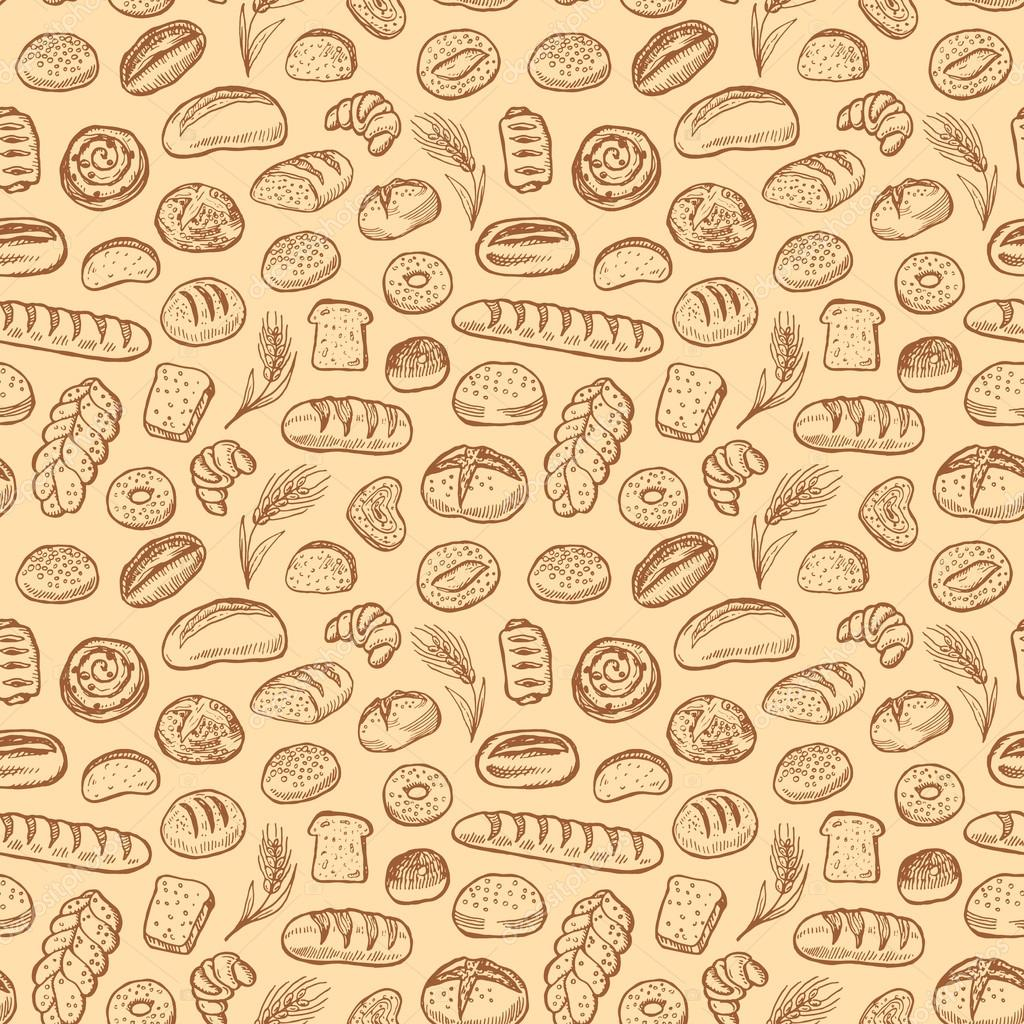
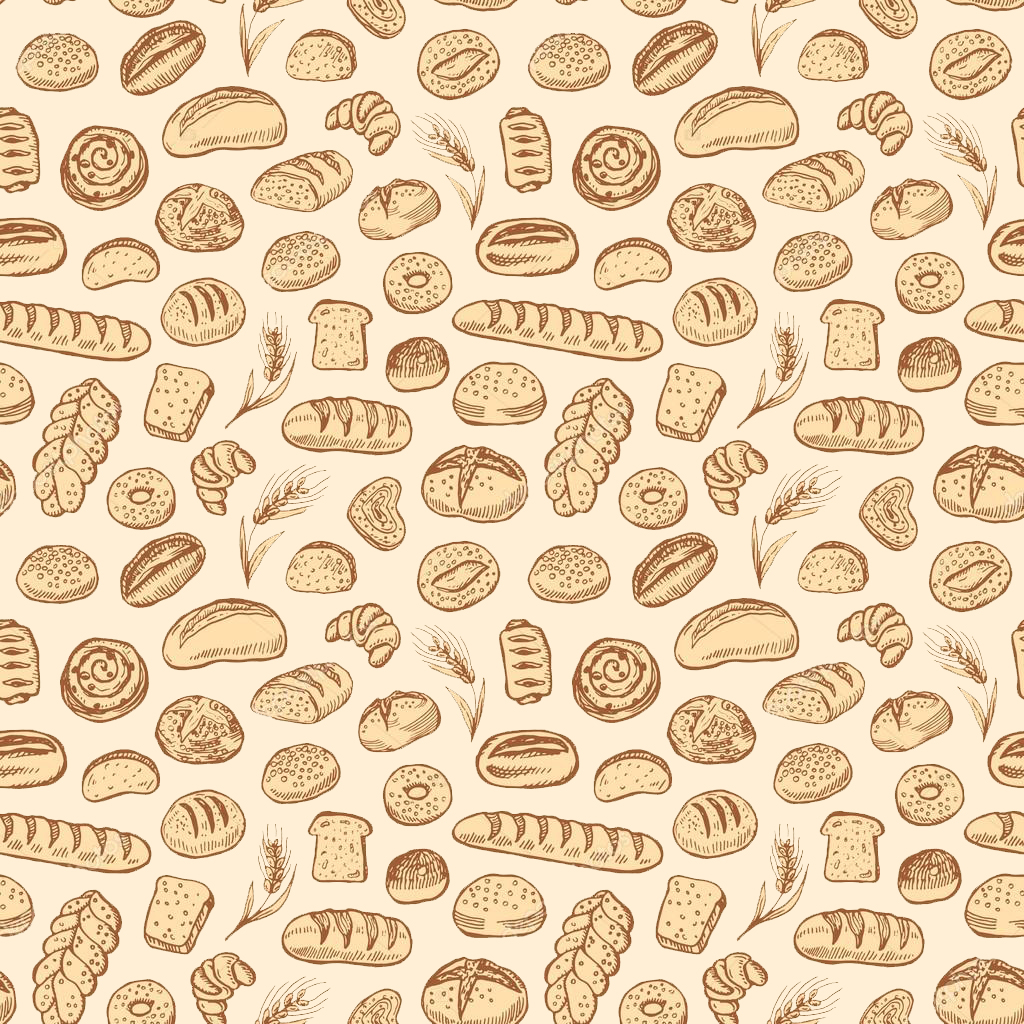
Nuevos fondos para las pestañas de eleccion y eliminadas las marcas de agua de los grids

diff --git a/startbootstrap-shop-homepage-gh-pages/eleccion.html b/startbootstrap-shop-homepage-gh-pages/eleccion.html
@@ -121,7 +121,7 @@
         </style>
     </head>
 
-<body background="background.jpg" class="fondo">
+<body background="backgroundeleccion.jpg" class="fondo">
     <nav class="navbar navbar-expand-sm bg-warning navbar-dark">
         <a class="navbar-brand" href="#">PanAPP</a>
         <ul class="navbar-nav ml-auto nav-flex-icons"><!-- Para boton de cerrar sesion -->
